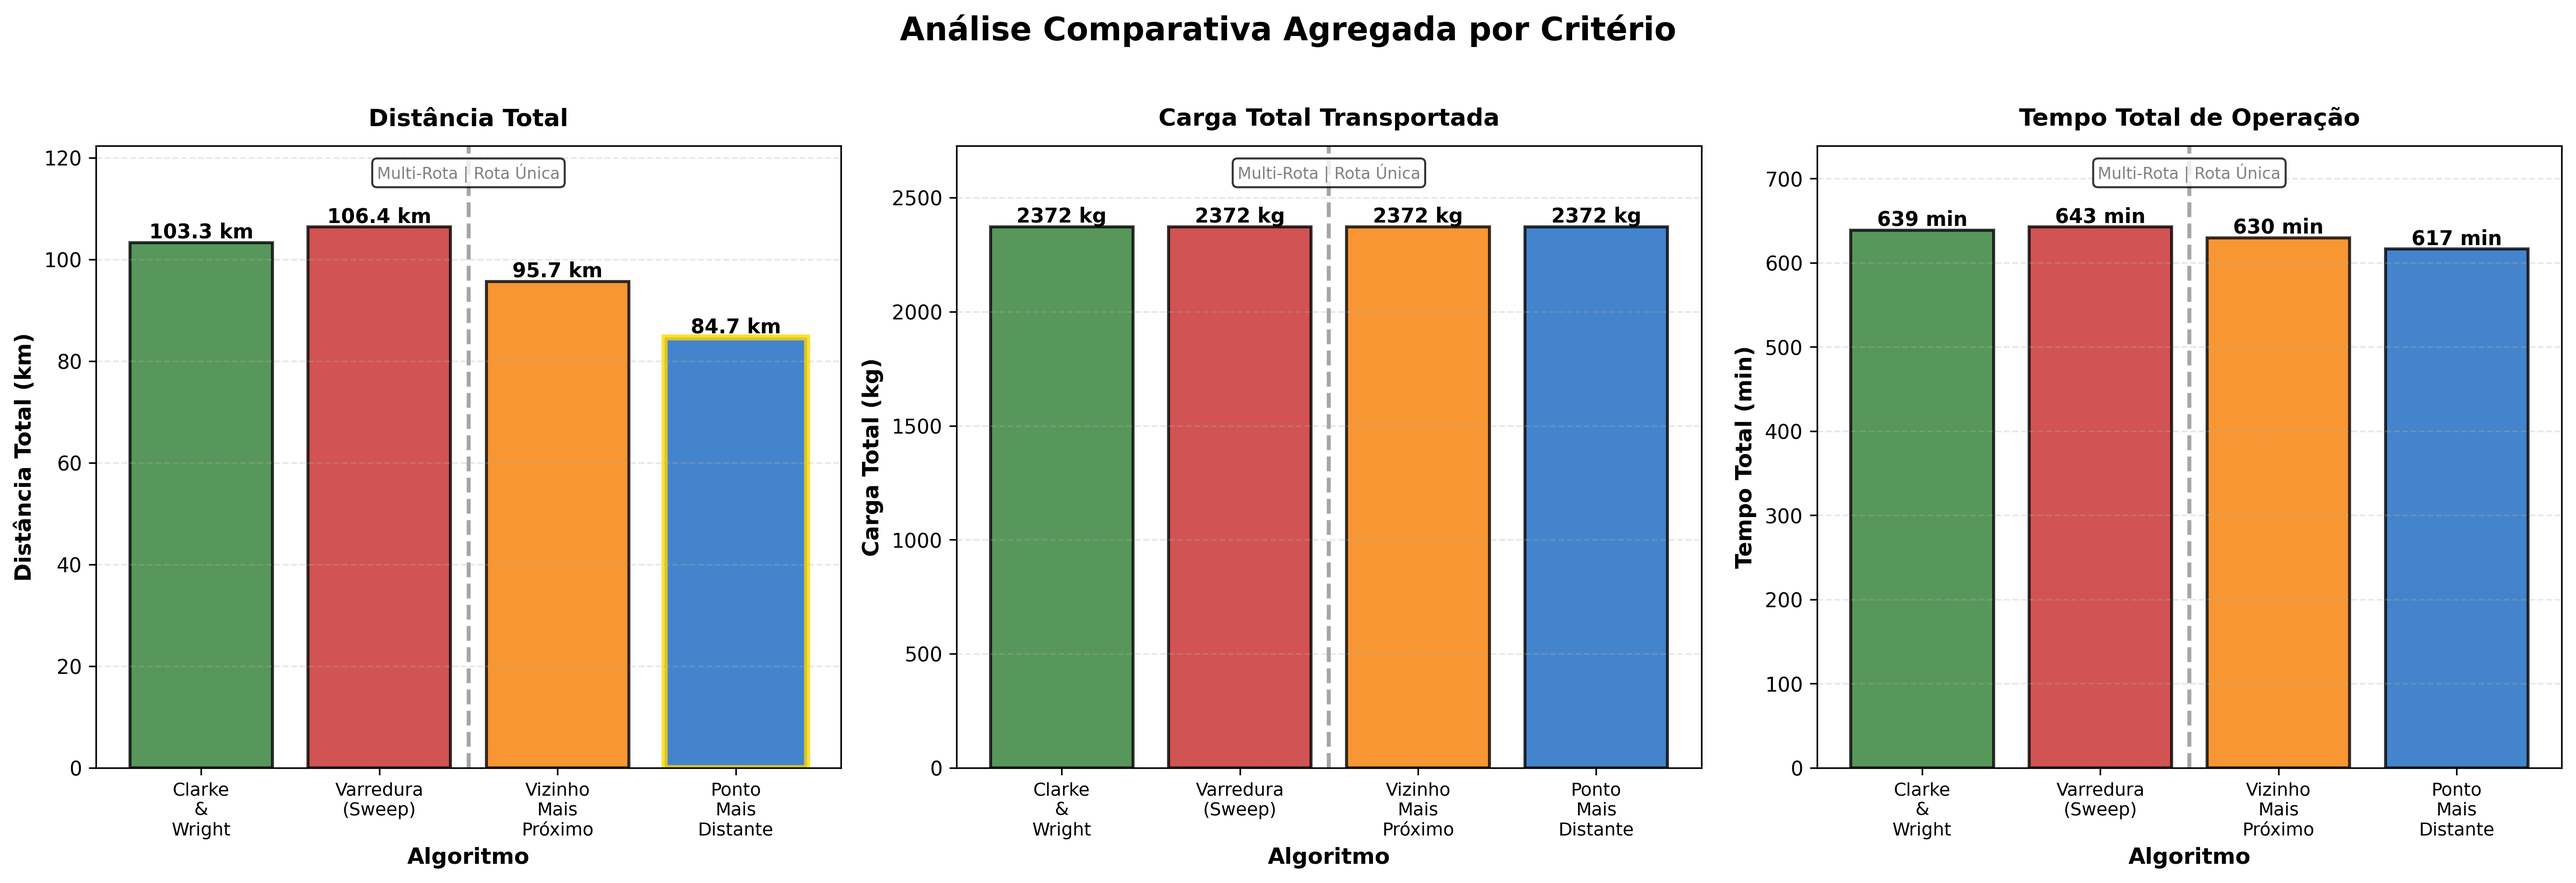
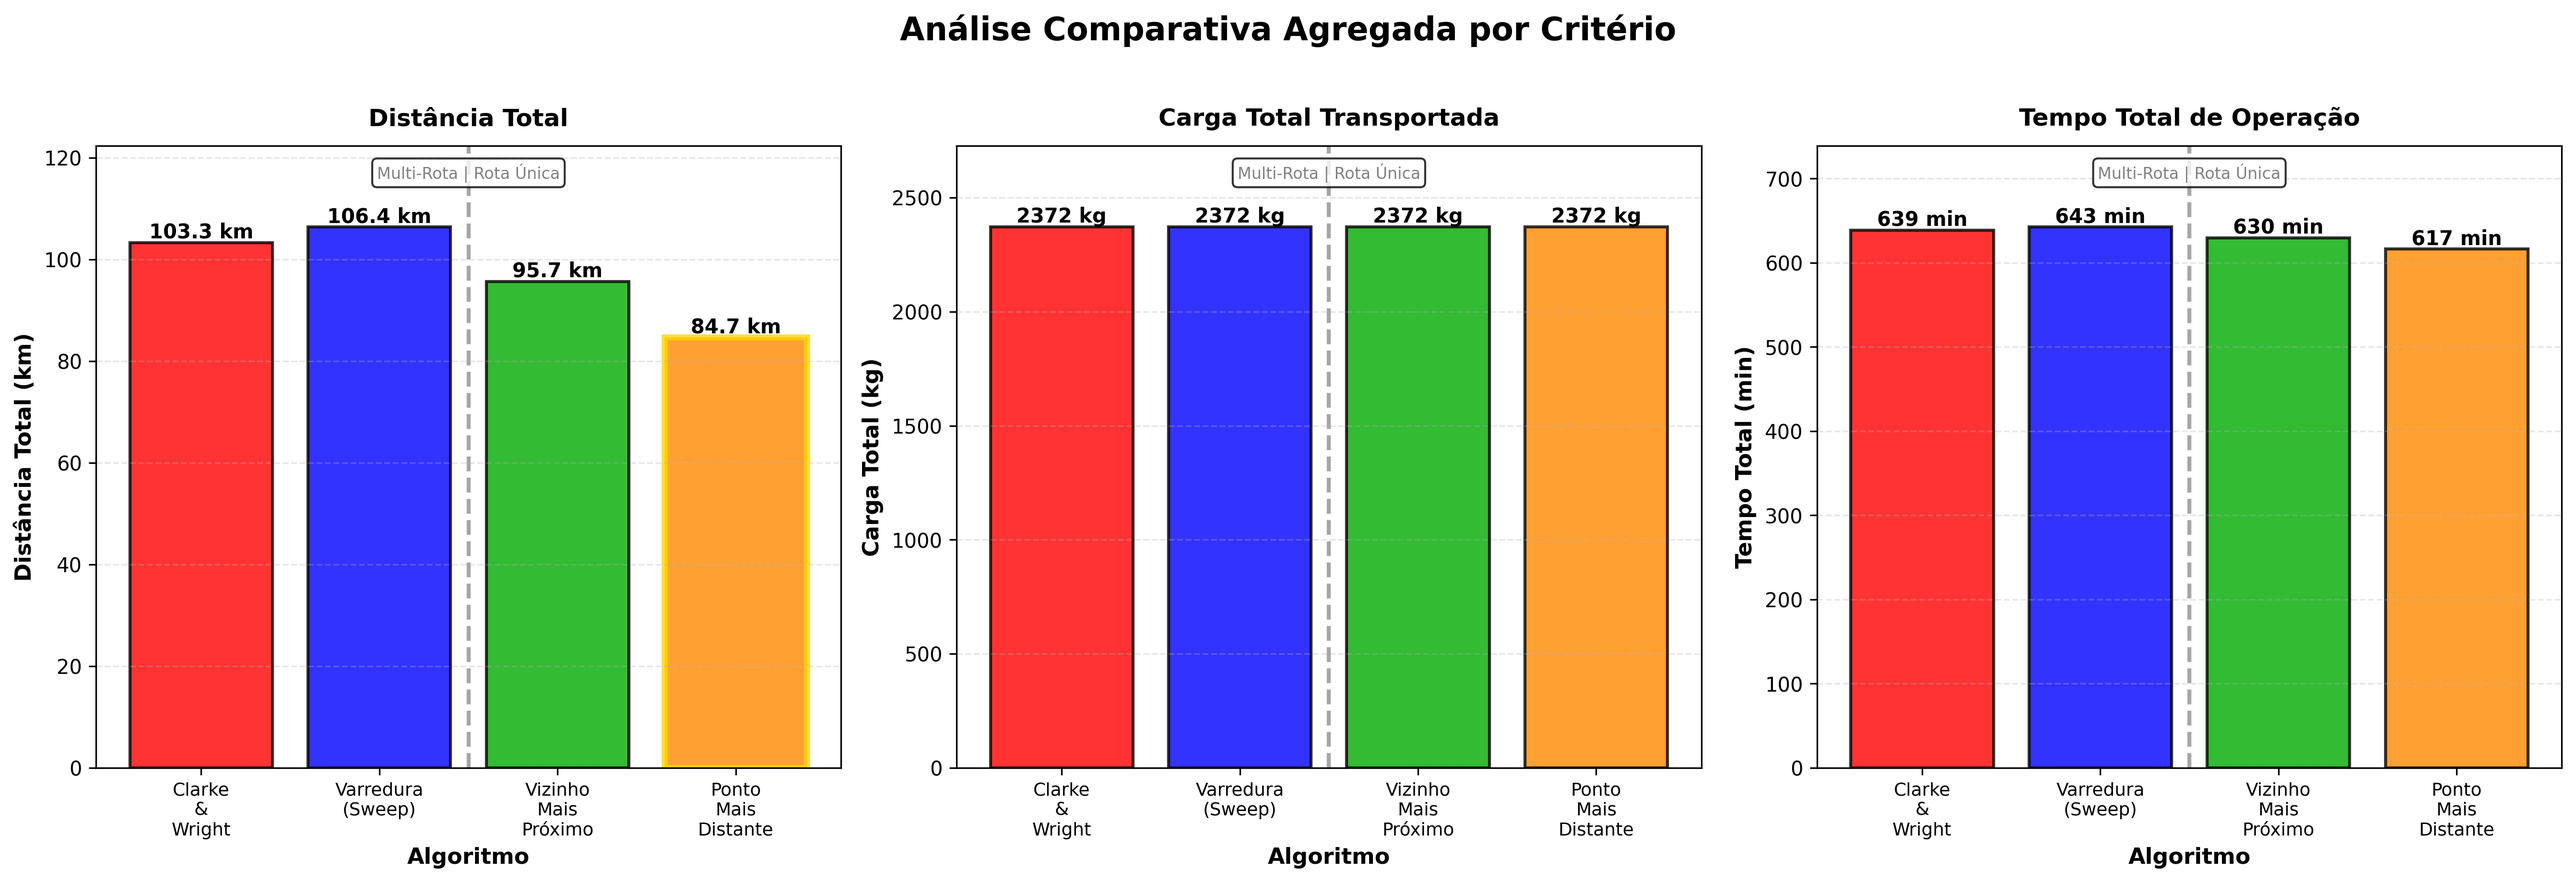
fix missing cores_bar def

diff --git a/run.py b/run.py
@@ -1388,6 +1388,9 @@ algoritmos_names = [
 ]
 algoritmos_labels = [name.replace(" ", "\n") for name in algoritmos_names]
 
+# Cores para os gráficos de barras (usar paleta consistente com as rotas)
+cores_bar = ["#FF0000", "#0000FF", "#00AA00", "#FF8800"]
+
 # Agregar totais para cada algoritmo
 distancias_totais_agg = []
 cargas_totais_agg = []
